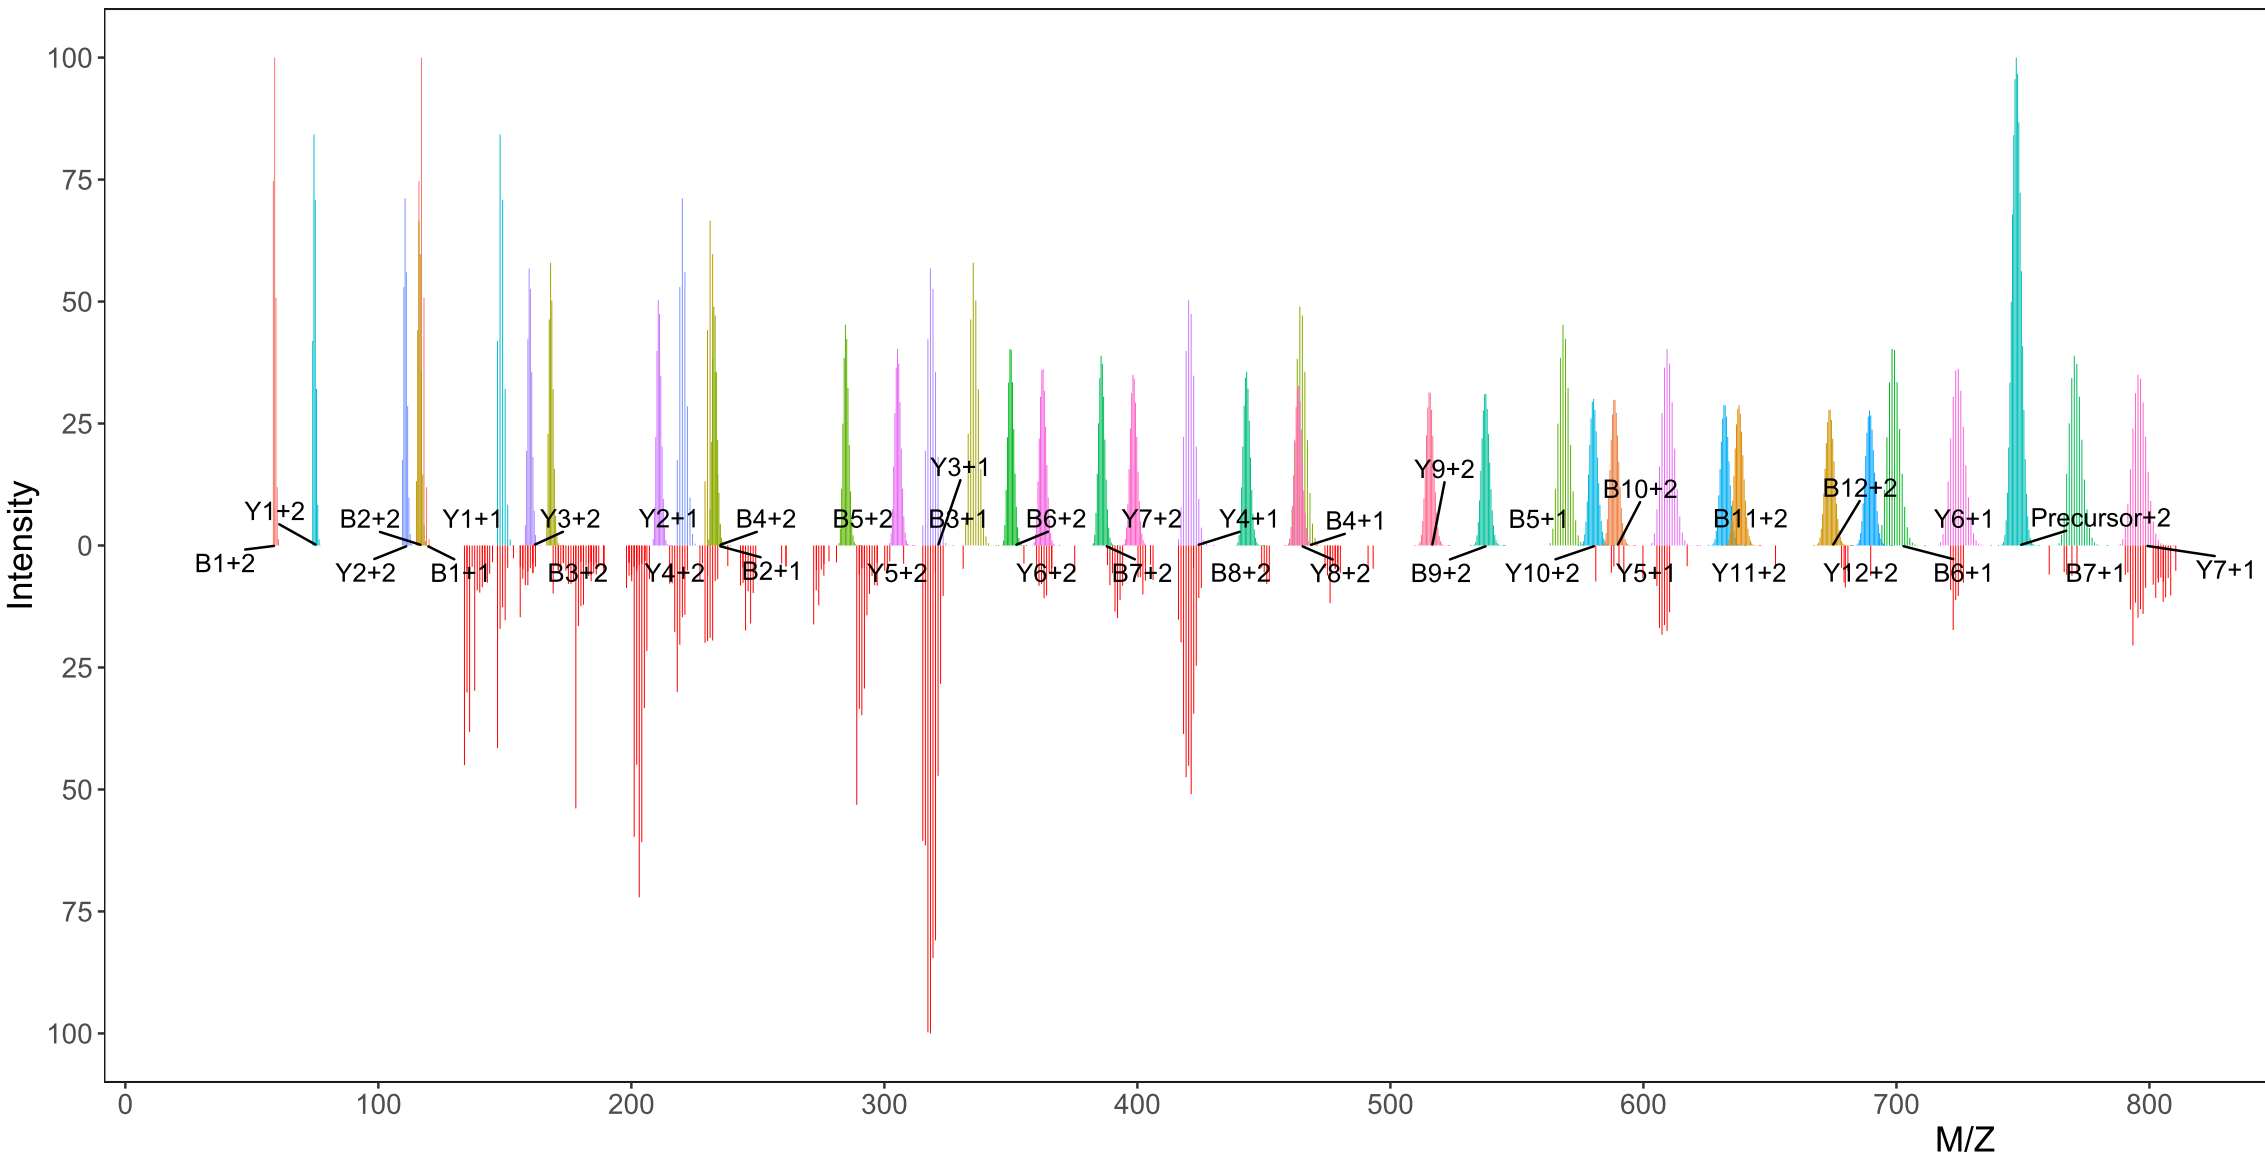
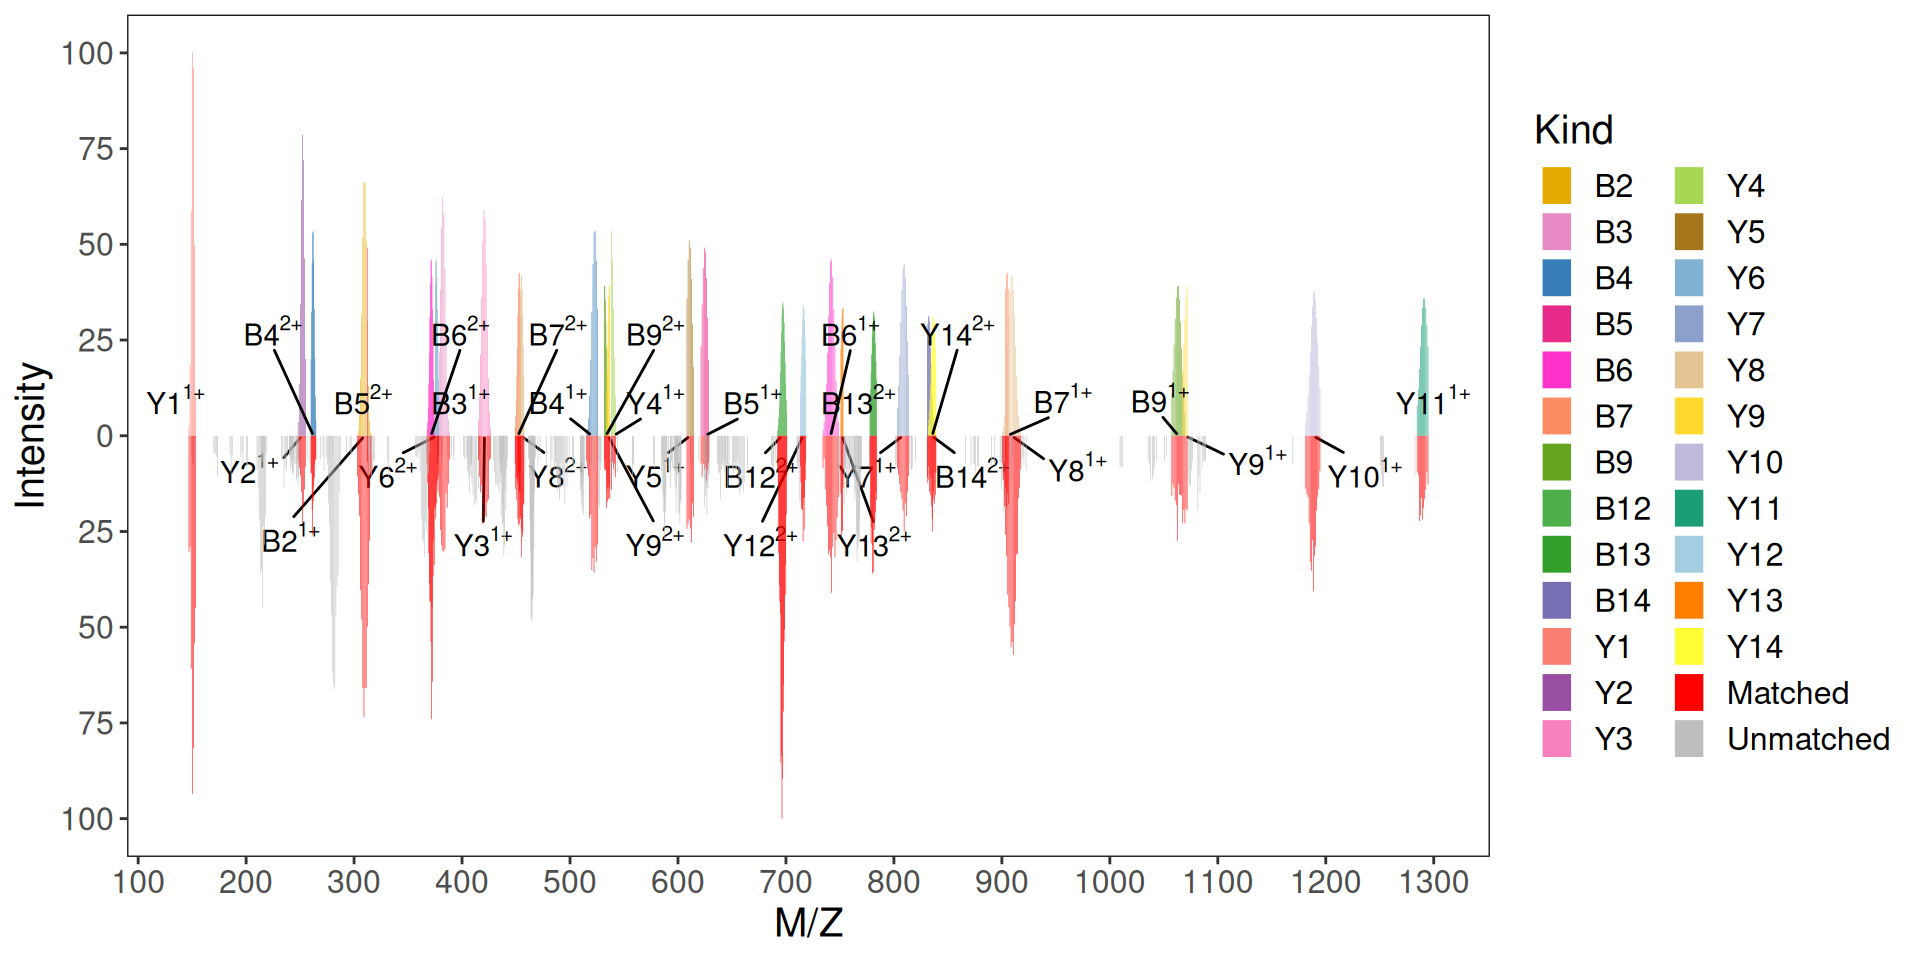
optimize readme

diff --git a/README.md b/README.md
@@ -1,13 +1,17 @@
 
-### Aerith
-
-![Aerith](./png/logo.png)
+### Aerith <img src="./png/logo.png" alt="Aerith" height="30" style="vertical-align: middle;" />
 
 Aerith is an R package that provides interfaces to read and write mass spectrum scans, calculate the theoretical isotopic peak envelope of peptide precursors and their B Y ions, score and visualize the PSM (peptide and spectra match), and visualize the TIC (total ion current) using Rcpp. In Final Fantasy VII, Aerith is the last surviving Cetra or “Ancient” who can communicate with the planet. In stable isotope analysis such as SIP (stable isotope probe), we study Earth or even the universe by analyzing isotopes of elements.
 
-### Install 
+![Abstract](./png/AerithAbstract.png)
 
-You can download the source package in release to install or install from github directly by following code in R. 
+### Citation
+
+Xiong, Yi, Ryan S. Mueller, Shichao Feng, Xuan Guo, and Chongle Pan. "Proteomic stable isotope probing with an upgraded Sipros algorithm for improved identification and quantification of isotopically labeled proteins." Microbiome 12 (2024).
+
+### Install
+
+You can download the source package in release to install or install from github directly by following code in R.
 
 ```r
 library(devtools)
@@ -15,36 +19,106 @@ install_github("xyz1396/Aerith")
 library(Aerith)
 ```
 
+### Download the test files
+
+Please read the [vignettes](./vignettes/) to get the input files and detail tutorial.
+
+#### Convert raw file to FT1, FT2, and mzml file
+
+[Link to download Raxport and help pages](https://github.com/xyz1396/Raxport.net)  
+[Links to download ThermoRawFileParser](https://github.com/compomics/ThermoRawFileParser/)  
+[Links of tutorial of Sipros](https://github.com/thepanlab/Sipros4)  
+[conda env of Sipros](https://anaconda.org/bioconda/sipros)  
+
+```{bash, eval=FALSE}
+mkdir rmd
+mkdir "rmd/input data format"
+cd "rmd/input data format"
+wget https://github.com/xyz1396/Raxport.net/releases/download/Raxport5.02/Raxport
+chmod +x Raxport
+wget https://github.com/compomics/ThermoRawFileParser/releases/download/v1.4.5/ThermoRawFileParser1.4.5.zip
+unzip ThermoRawFileParser1.4.5.zip -d ThermoRawFileParser
+mkdir raw ft mzml mgf
+conda create -n sipros4 -c bioconda -c conda-forge sipros
+# for using mono in this conda env
+conda activate sipros4
+# Download raw file with 1% 13C
+wget ftp://ftp.pride.ebi.ac.uk/pride/data/archive/2024/06/PXD041414/Pan_062822_X1iso5.raw -P raw
+# Download raw file with 50% 13C  
+wget ftp://ftp.pride.ebi.ac.uk/pride/data/archive/2024/06/PXD041414/Pan_052322_X13.raw -P raw
+wget ftp://ftp.pride.ebi.ac.uk/pride/data/archive/2024/06/PXD041414/pct50.psm.txt
+wget ftp://ftp.pride.ebi.ac.uk/pride/data/archive/2024/06/PXD041414/pct1.psm.txt
+# convert raw to FT1 and FT2 file
+./Raxport -i raw -o ft -j 8
+# convert raw to mzml file
+mono ThermoRawFileParser/ThermoRawFileParser.exe -d raw -o mzml
+mono ThermoRawFileParser/ThermoRawFileParser.exe -d raw -f 0 -o mgf
+```
+
 ### Read and write Mass spectrum scan
 
-Now we only support read .FT1 or .FT2 files well generated by [Raxport.net](https://github.com/xyz1396/Raxport.net)
+#### Read all scans from FT1 and FT2 file
 
-Read .FT1 file 
+```{r eval=FALSE}
+ft2 <- readAllScanMS2("../rmd/input data format/ft/Pan_062822_X1iso5.FT2")
+ft2 <- getRealScan(10487, ft2)
+plot(ft2)
 
-```r
-ft1 <- readAllScanMS1("demo.FT1")
+ft1 <- readAllScanMS1("../rmd/input data format/ft/Pan_062822_X1iso5.FT1")
+tic <- getTIC(ft1)
+ft1 <- getRealScan(10430, ft1)
+plot(ft1)
 ```
 
-Read .FT2 file 
+![ft2](./png/ft2plot.png)
 
-```r
-ft2 <- readAllScanMS2("demo.FT2")
+```{r eval=FALSE}
+plotTIC(tic)
 ```
 
-Read .mzML file. You need to install mzR first
+![tic](./png/tic.png)
 
-```r
-ft1 <- readMzmlMS1("demo.mzML")
-ft2 <- readMzmlMS2("demo.mzML")
+#### Write small demo FT1 FT2 file
+
+```{r eval=FALSE}
+header <- readFTheader("../rmd/input data format/ft/Pan_062822_X1iso5.FT1")
+ft1 <- readAllScanMS1("../rmd/input data format/ft/Pan_062822_X1iso5.FT1")
+writeAllScanMS1(header,ft1[1:100],"../rmd/input data format/demo.ft1")
 ```
 
-Write .FT2 file
-
-```r
-header <- readFTheader("demo.ft2")
-ft2 <- readAllScanMS2("demo.ft2")
-writeAllScanMS2(header,ft2[1:10],"demo10.ft2")
+```{r eval=FALSE}
+header <- readFTheader("../rmd/input data format/ft/Pan_062822_X1iso5.FT2")
+ft2 <- readAllScanMS2("../rmd/input data format/ft/Pan_062822_X1iso5.FT2")
+writeAllScanMS2(header,ft2[1:100],"../rmd/input data format/demo.ft2")
 ```
+
+### Theoretic spectra generation of SIP labeled compound
+
+```{r}
+# natural abundance of (M-H)- of glucose
+iso1<- cal_isotope_numbers_SIP("C6H11O6")
+plotMolecularIsotopes(iso1) + 
+  ggtitle(expression(C[6]*H[11]*O[6]^"-"~1.07*"% "*{}^{13}*C))
+# adjusted abundance in SIP
+iso2<- cal_isotope_numbers_SIP("C6H11O6", num_simulations = 50000, C13 = 0.5)
+plotMolecularIsotopes(iso2) + 
+  ggtitle(expression(C[6]*H[11]*O[6]^"-"~50*"% "*{}^{13}*C))
+```
+
+![Peak](./png/glucoseNaMC.png)
+
+```{r}
+# natural abundance of (M+Na)⁺ of glucose
+iso1<- cal_isotope_peaks_fft("C6H12O6Na")
+plotMolecularFFTisotopes(iso1) + 
+  ggtitle(expression(C[6]*H[12]*O[6]*Na^"+"~1.07*"% "*{}^{13}*C))
+# adjusted abundance in SIP
+iso2<- cal_isotope_peaks_fft("C6H12O6Na", N_width = 200, min_abundance = 0.001, C13 = 0.5)
+plotMolecularFFTisotopes(iso2) + 
+  ggtitle(expression(C[6]*H[12]*O[6]*Na^"+"~50*"% "*{}^{13}*C))
+```
+
+![Peak](png/glucoseNaFFT.png)
 
 ### Calculate theorotic peak
 
@@ -54,6 +128,7 @@ writeAllScanMS2(header,ft2[1:10],"demo10.ft2")
 a <- getSipPrecursorSpectra("KHRIPCDRK", "C13", 0.25, 2)
 plot(a)
 ```
+
 ![Peak](./png/theoreticPeaks.png)
 
 #### B Y ions
@@ -67,25 +142,38 @@ plot(a)
 
 ### PSM visualization
 
-```r
-a <- getSipBYionSpectra("KHRIPCDRK", "C13", 0.25, 1:2)
-p <- plot(a)
-p <- p + plotSipBYionLabel(a)
-b <- readAllScanMS2("demo.FT2")
-c <- getRealScan(18, b)
-p <- p + plotRealScan(c)
-p
+```{r}
+psm <- readPSMtsv("../rmd/input data format/pct50.psm.txt")
+psm <- arrange(psm, desc(Score))
+# use the same peptide as 1% 13C chunk
+psm1 <- psm[4, ]
+pep <- psm1$OriginalPeptide
+pep <- str_sub(pep, 2, -2)
+pct <- psm1$SearchName
+pct <- as.numeric(str_sub(pct, 5, -4)) / 1000 / 100
+scan1 <- readOneScanMS2("../rmd/input data format/ft/Pan_052322_X13.FT2", psm1$ScanNumber)
+scan1 <- getRealScanFromList(scan1)
+```
+
+```{r}
+isoCenter <- psm1$MeasuredParentMass / psm1$ParentCharge + 1.007276
+anno <- annotatePSM(
+  scan1@spectra$MZ, scan1@spectra$Prob,
+  scan1@spectra$Charge,
+  pep, 1:2, "C13",
+  pct, isoCenter, 5.0
+)
+head(anno$ExpectedBYions[anno$ExpectedBYions$residuePositions != -1, ])
+residuePos <- anno$ExpectedBYions$residuePositions[anno$ExpectedBYions$matchedIndices != -1]
+table(residuePos)
+# let the color be repeatable
+set.seed(9527)
+plotPSMannotation(
+  observedSpect = scan1,
+  pep = pep, Atom = "C13", Prob = pct,
+  charges = c(1, 2), isoCenter = isoCenter,
+  isoWidth = 5, ifRemoveNotFoundIon = T
+)
 ```
 
 ![PSM](./png/PSM.png)
-
-
-### TIC visualization
-
-```r
-a <- readAllScanMS2("demo.FT2")
-b <- getTIC(a)
-plotTIC(b)
-```
-
-![TIC](./png/TIC.png)
